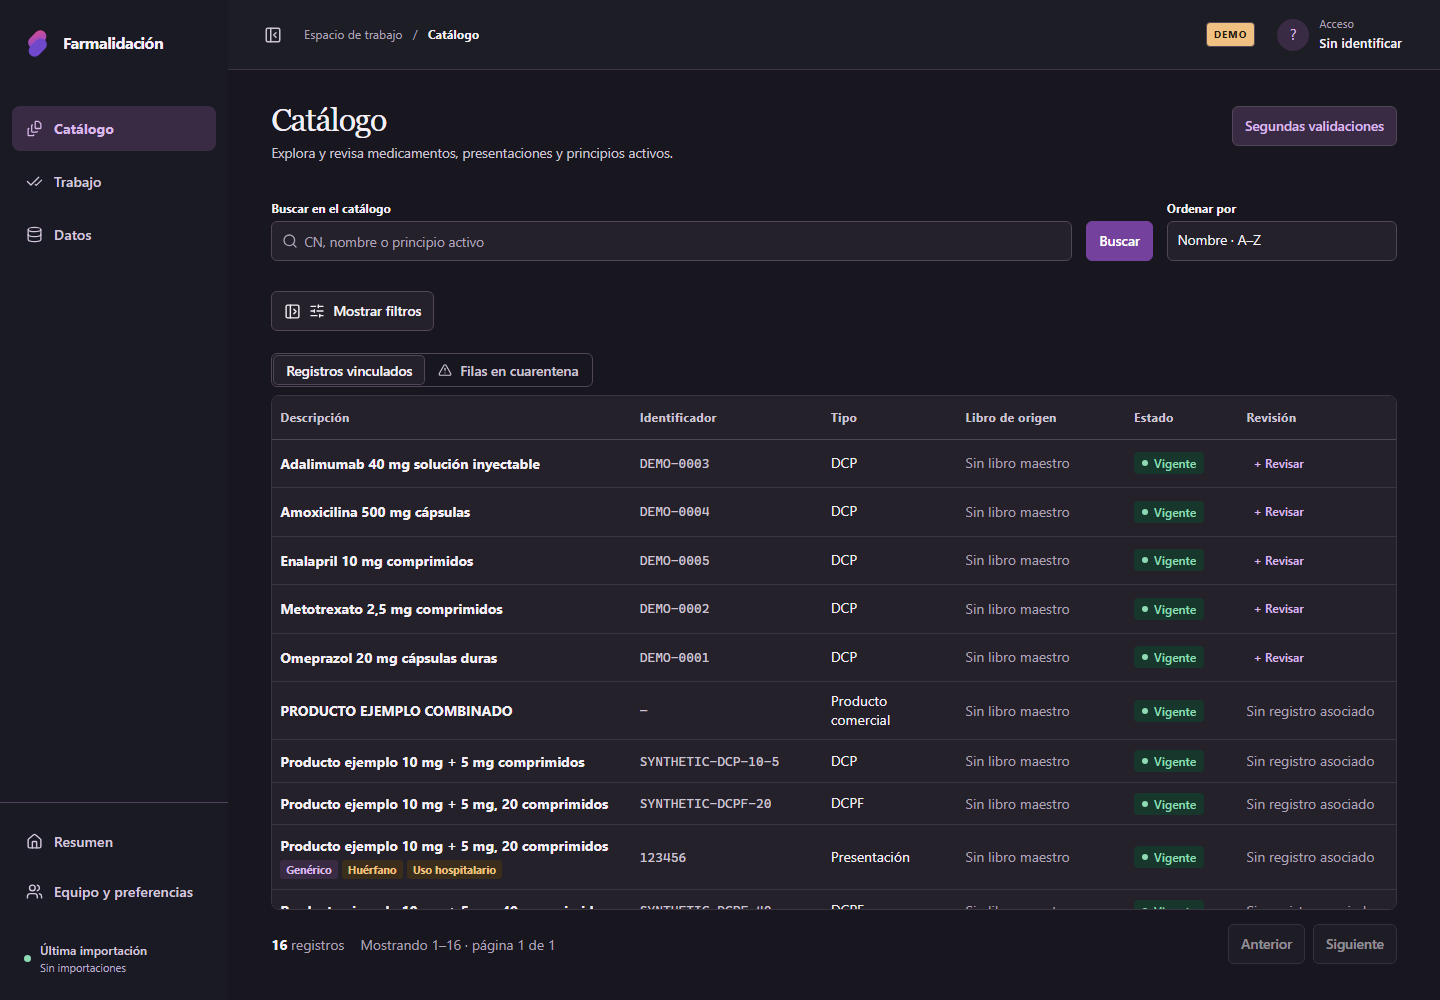
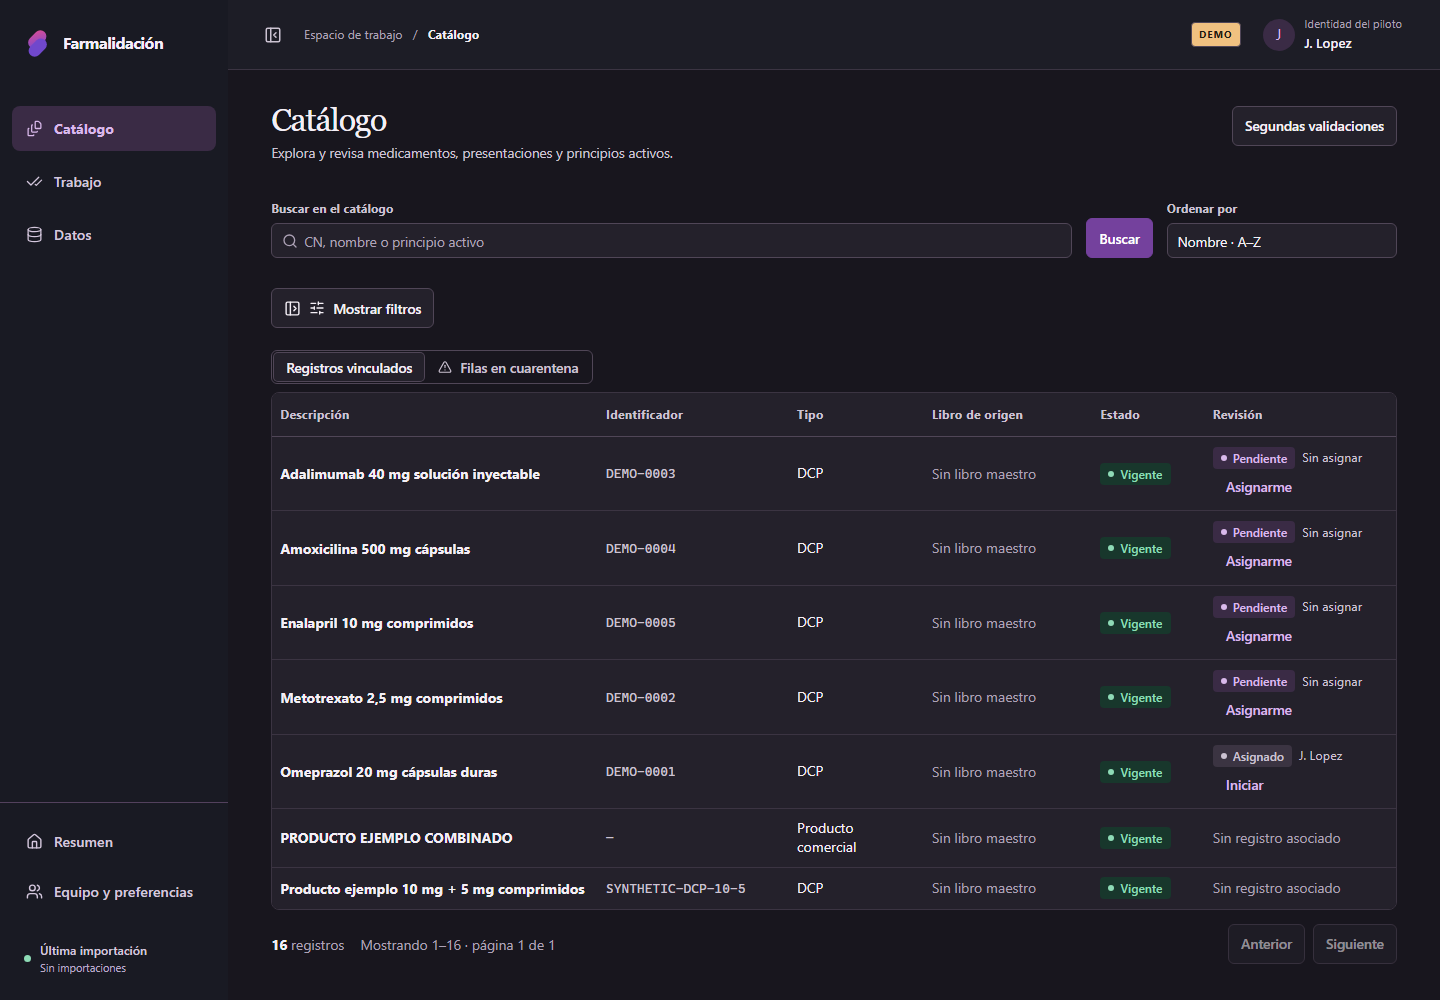
Ajustar cola, catálogo y novedades con datos reales
Con la cola poblada: el estado ocupa una columna fija y las acciones de
cada fila son pequeñas, con «Abrir registro» como enlace. El estado de
revisión del catálogo usa los mismos distintivos que la cola (antes
«Pendiente» era violeta en una y gris en otra) y la columna se ensancha
para no partirse en tres líneas. El total de novedades CIMA se muestra
como cifra en lugar de tarjeta.

diff --git a/validador-fichas-tecnicas-repo-kit/frontend/src/screens/RealRecordListScreen.tsx b/validador-fichas-tecnicas-repo-kit/frontend/src/screens/RealRecordListScreen.tsx
@@ -555,7 +555,7 @@ export function RealRecordListScreen({ reviewer = null, reviewers = [], initialR
                       <td><span className={`badge ${item.active ? 'badge--validado' : 'badge--descartado'}`}>{item.active ? 'Vigente' : 'Archivado'}</span></td>
                       <td className='catalog-review-cell'>{(() => {
                         const work = queue.find((entry) => entry.target_record_id === item.target_record_id)
-                        return work ? <div className='catalog-review-cell__content'><span className='catalog-review-cell__assignment'><span className='catalog-review-cell__state'>{REVIEW_LABELS[work.state] ?? work.state}</span>{' '}<span className='catalog-review-cell__assignee'>{work.assignee_id ? reviewers.find(person => person.identifier === work.assignee_id)?.display_name ?? work.assignee_id : 'Sin asignar'}</span></span>
+                        return work ? <div className='catalog-review-cell__content'><span className='catalog-review-cell__assignment'><span className={`catalog-review-cell__state badge badge--${work.state}`}>{REVIEW_LABELS[work.state] ?? work.state}</span>{' '}<span className='catalog-review-cell__assignee'>{work.assignee_id ? reviewers.find(person => person.identifier === work.assignee_id)?.display_name ?? work.assignee_id : 'Sin asignar'}</span></span>
                           {canReview && reviewer && work.assignee_id === reviewer.identifier && work.state === 'asignado' && <button type='button' className='button button--secondary' disabled={queueBusy !== null} onClick={() => void updateQueue(() => transitionQueue(work, reviewer.identifier, 'en_revision'))}>Iniciar</button>}
                           {canReview && reviewer && !work.assignee_id && work.state === 'pendiente' && <button type='button' className='button button--secondary' disabled={queueBusy !== null} onClick={() => void updateQueue(() => assignQueue(work.target_record_id, reviewer.identifier))}>Asignarme</button>}
                         </div> : !canReadReview || !canReview ? <span className='muted'>—</span> : item.target_record_id ? queueLoading ? <span className='muted'>Consultando…</span> : <button type='button' className='button button--ghost button--sm' disabled={queueBusy !== null || Boolean(queueError)} onClick={() => void addToQueue(item.target_record_id!)}>+ Revisar</button>

diff --git a/validador-fichas-tecnicas-repo-kit/frontend/src/screens/work.css b/validador-fichas-tecnicas-repo-kit/frontend/src/screens/work.css
@@ -18,3 +18,19 @@
 @media (max-width: 700px) {
   .app-shell .queue-add { grid-template-columns: 1fr; }
 }
+
+/* Filas de la cola: identidad, estado en columna fija y acciones discretas. */
+.app-shell .queue-list > li { grid-template-columns: auto minmax(220px, 1fr) 132px minmax(0, 420px); }
+.app-shell .queue-list > li > .badge { justify-self: start; }
+.app-shell .queue-list__actions { gap: var(--space-1); }
+.app-shell .queue-list__actions .button { min-height: 28px; padding: 0 var(--space-2); font-size: var(--text-xs); }
+.app-shell .queue-list__actions .button:last-child { border-color: transparent; color: var(--accent-strong); background: transparent; }
+.app-shell .queue-list__actions .button:last-child:hover { background: var(--accent-soft); }
+
+/* Novedades CIMA: total del histórico como cifra, no como tarjeta. */
+.app-shell .maintenance-history-search__total { padding: 0; border: 0; background: none; color: var(--ink); font-size: 1.75rem; font-weight: var(--weight-semibold); font-variant-numeric: tabular-nums; line-height: 1; text-align: right; }
+.app-shell .maintenance-history-search__total span { display: block; margin-top: 4px; color: var(--ink-faint); font-size: var(--text-xs); font-weight: var(--weight-regular); }
+@media (max-width: 1280px) {
+  .app-shell .queue-list > li { grid-template-columns: auto minmax(0, 1fr) 132px; }
+  .app-shell .queue-list__actions { grid-column: 2 / -1; justify-content: flex-start; }
+}

diff --git a/validador-fichas-tecnicas-repo-kit/frontend/src/studio.css b/validador-fichas-tecnicas-repo-kit/frontend/src/studio.css
@@ -676,7 +676,7 @@ select option { color: var(--ink); background: var(--surface); }
 .app-shell .catalog-review-cell { white-space: normal; min-width: 0; vertical-align: middle; text-align: left; }
 .catalog-review-cell__content { display: flex; align-items: center; flex-wrap: wrap; gap: 4px 10px; min-width: 0; }
 .catalog-review-cell__assignment { display: inline-flex; align-items: center; flex-wrap: wrap; gap: 4px 7px; min-width: 0; }
-.catalog-review-cell__state { display: inline-block; padding: 3px 7px; border-radius: 5px; color: var(--accent-strong); background: var(--accent-soft); font-size: .72rem; font-weight: 650; line-height: 1.25; }
+.catalog-review-cell__state { display: inline-block; padding: 3px 7px; border-radius: 5px; font-size: .72rem; font-weight: 650; line-height: 1.25; }
 .catalog-review-cell__assignee { color: var(--ink-soft); font-size: .78rem; line-height: 1.35; overflow-wrap: anywhere; }
 .app-shell .catalog-review-cell .button { width: auto; max-width: 100%; white-space: normal; margin: 0; }
 

diff --git a/validador-fichas-tecnicas-repo-kit/frontend/src/screens/catalog.css b/validador-fichas-tecnicas-repo-kit/frontend/src/screens/catalog.css
@@ -15,3 +15,8 @@
 .app-shell .catalog-results__footer { border: 0; padding-inline: 0; background: transparent; }
 .app-shell .catalog-results__footer .pagination { display: flex; gap: var(--space-2); }
 .app-shell .catalog-table-scroll .table td.catalog-review-cell { text-align: left; }
+
+.app-shell .catalog-review-cell__content { gap: 4px var(--space-2); }
+.app-shell .catalog-col-name { width: 29%; }
+.app-shell .catalog-col-review { width: 17%; }
+.app-shell .catalog-review-cell__assignment { flex-wrap: nowrap; white-space: nowrap; }
